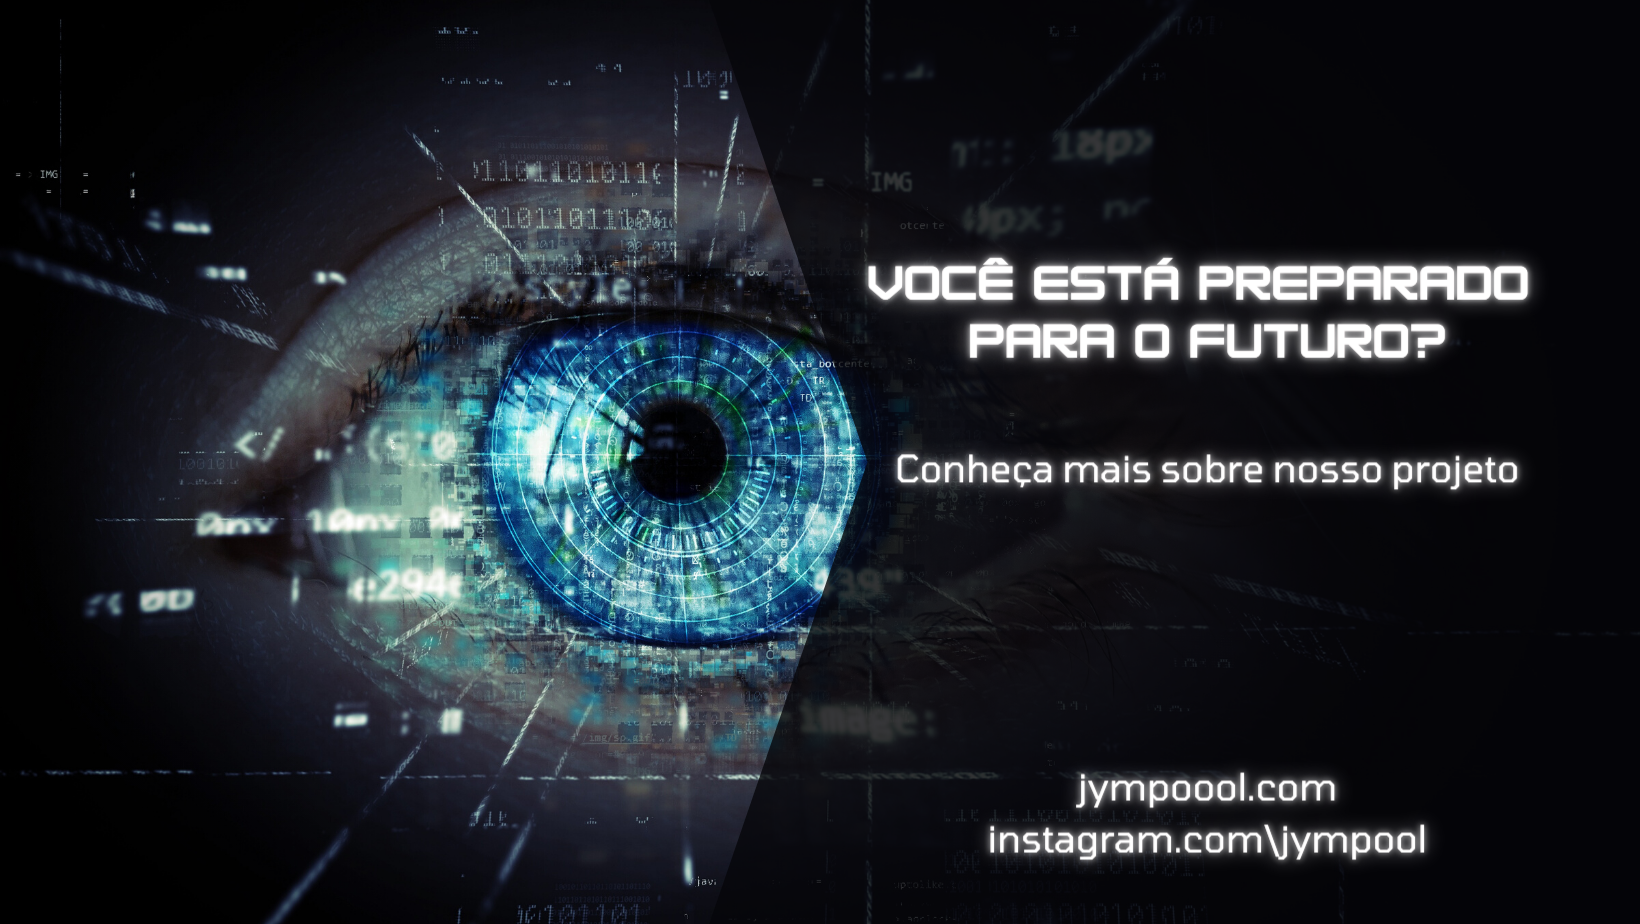
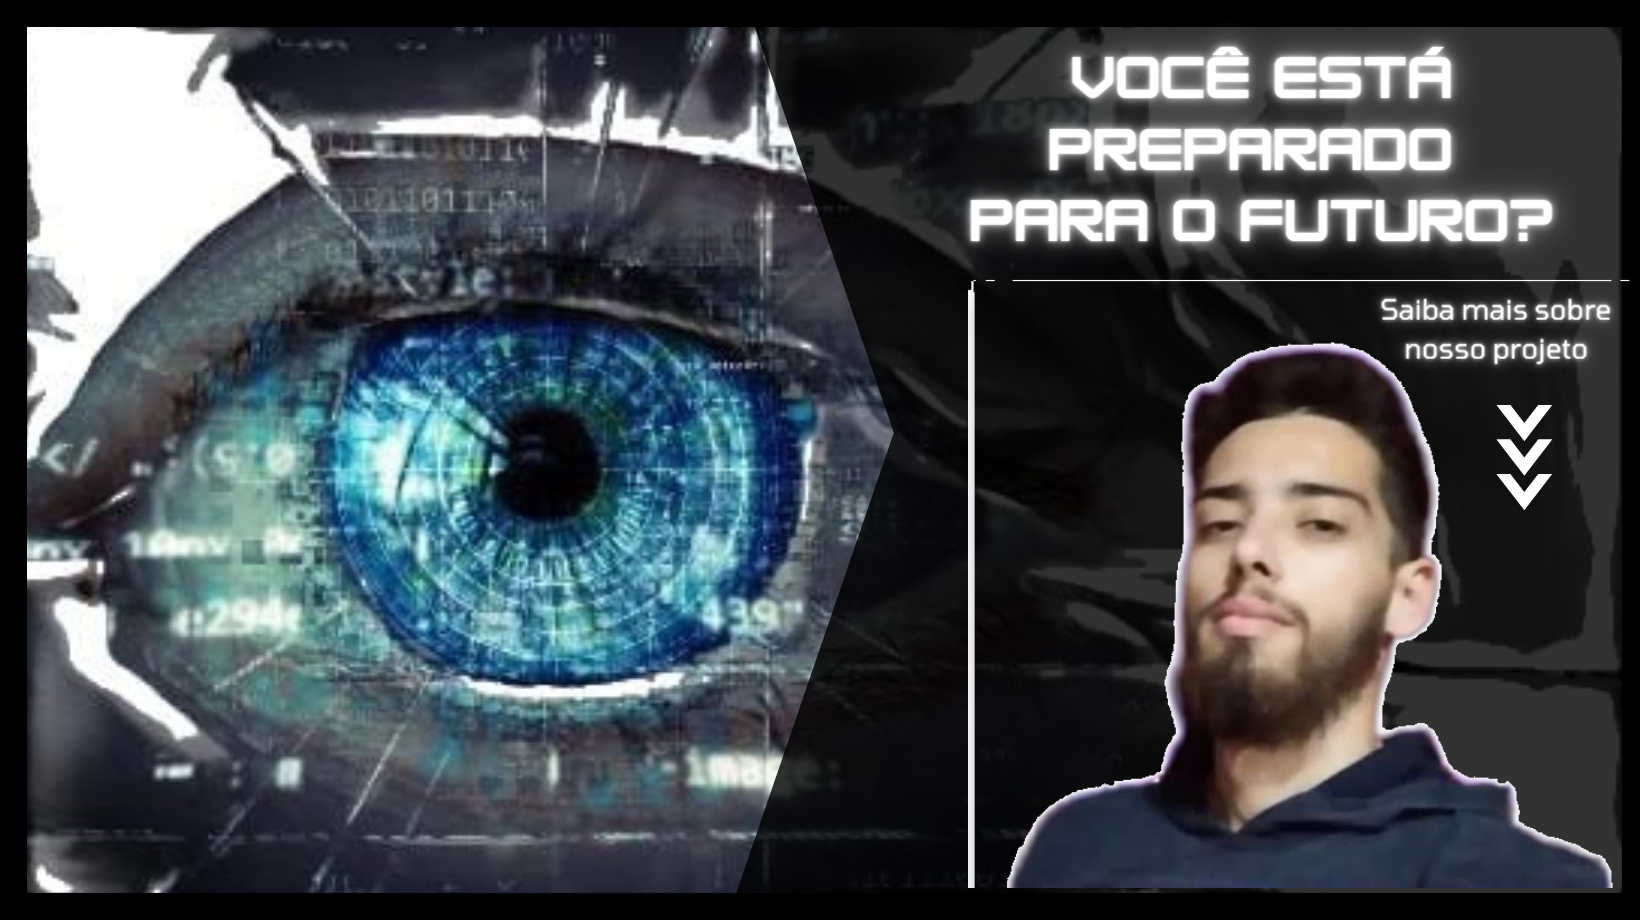
Add files via upload

diff --git a/links/index.html b/links/index.html
@@ -31,6 +31,13 @@
   </head>
   <body>
 
+        <header class="py-4">
+      <div class="container">
+        <div class="row justify-content-center">
+          <div class="col-lg-8 text-center">
+            <!-- Jympool Futuro -->
+            <img class="img-fluid" src="./assets/img/futuro.png">
+
             <!-- Headline -->
             <h3 class="my-4"><b></b></h3>
 
@@ -54,7 +61,7 @@
             </div>
 
             <a href="https://tiktok.com\jympoolyt" class="a-btn" style="text-decoration: none;">
-                <span class="span-btn"">TikTok</span>
+                <span class="span-btn">TikTok</span>
                 <span class="span-btn2">(clique aqui)</span>
               </a>
             </div>
@@ -66,12 +73,12 @@
             </div>
 
 
-    </style>
+                     </style>
 
- </head>
-  <body>
-            <!-- Termos de Uso e Política de Privacidade -->
-            <div class="text-white mt-4"><a href="termos.html" class="text-white">Termos de Uso</a> | <a href="privacidade.html" class="text-white">Política de Privacidade</a></div>
+             </head>
+            <body>
+                               <!-- Termos de Uso e Política de Privacidade -->
+                <div class="text-white mt-4"><a href="termos.html" class="text-white">Termos de Uso</a> | <a href="privacidade.html" class="text-white">Política de Privacidade</a></div>
           </div>
         </div>
       </div>
